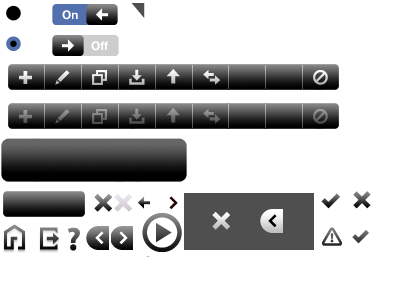
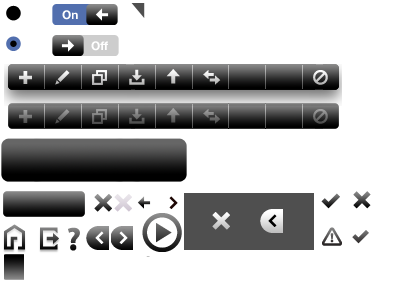
css for error.label on validation forms. fixed strange padding on filemanager toolbar

Changed region(s): [[0.0, 0.2353, 0.8593, 0.3529], [0.0, 0.8235, 0.0593, 0.9412]]

diff --git a/bubba-frontend/admin/views/default/_css/admin.css b/bubba-frontend/admin/views/default/_css/admin.css
@@ -10,7 +10,7 @@ form form {margin: 0;}
 */
 fieldset {border: 0;} //RENSA BORT VID SLUTCHECK
 input {background:#fff;padding: 0.2em;margin: 0.2em;}
-input[type=submit],input[type=button],input[type=file], button {padding: 0.2em;margin: 0.2em;color:white;font-weight:bold;-moz-border-radius: 0.3em;-webkit-border-radius: 0.3em;border:0;font-size:12px;background-image:url(../_img/label.png);background-repeat:overflow:hidden;background-position: -6px -138px;display:block;height:31px;}
+input[type=submit],input[type=button],input[type=file], button {padding: 0.2em;margin: 0.2em;color:white;font-weight:bold;-moz-border-radius: 0.3em;-webkit-border-radius: 0.3em;border:0;font-size:12px;background-image:url(../_img/label.png);background-repeat:overflow:hidden;background-position: -6px -138px;display:block;height:31px;min-width:70px;}
 input[type=submit]:hover,input[type=button]:hover {border:0;opacity:0.5 !important;-ms-filter:"progid:DXImageTransform.Microsoft.Alpha(Opacity=50)" !important;filter: alpha(opacity=50) !important;}
 input[type=submit]:focus,input[type=button]:focus {border:0}
 input[type=text],input[type=password] {vertical-align:text-bottom;padding:0.3em;-moz-border-radius: 0.3em;-webkit-border-radius: 0.3em;border: 0.1em solid #e5e5e5;}
@@ -39,21 +39,16 @@ button:hover {outline:none;}
 img{border: 0;}
 button:hover, input[type=button], input[type=submit], input[type=reset] { cursor: pointer }
 
-thead tr.ui-header th {
-	text-align: left;
-}
-
-table.ui-table.ui-table-list tbody tr td:last-child button {
-	float: right;
-}
-.ui-dialog-buttonpane {
-	text-align: center;
-}
+thead tr.ui-header th {	text-align: left;}
+table.ui-table.ui-table-list tbody tr td:last-child button {	float: right;}
+.ui-dialog-buttonpane {	text-align: center;}
 
 /*GENERAL CLASSES */
 .ui-header {background-color: #e5e5e5;color:#000;padding-left:1.2em;}
 .ui-div-header {font-size:14px;height:24px;padding:7px 1.2em;height:17px;}
-label.error { padding : 3px;  padding-left: 3px;  color: #fff; background-color : #656565; font-size : 10px !important;width:200px !important;z-index:100px;}
+
+label.error { padding : 1px;color: #fff; background-color : #656565; font-size : 10px !important;width:200px !important;z-index:100px;position:absolute;margin-left:2px;line-height:17px;height:17px;text-align:center;margin-top:6px;background-image:url(../_img/label.png);background-repeat:overflow:hidden;background-position: -6px -138px;
+-moz-border-radius-bottomleft: 1.5em !important;-webkit-border-radius-bottomleft: 1.5em !important;-moz-border-radius-topleft: 1.5em !important;-webkit-border-radius-left: 1.5em !important;opacity:0.85 !important;-ms-filter:"progid:DXImageTransform.Microsoft.Alpha(Opacity=85)" !important;filter: alpha(opacity=85) !important;-moz-box-shadow: 2px 3px 3px #666;-webkit-box-shadow:2px 3px 3px #666;box-shadow:2px 3px 3px #666;}
 input.error { border : 2px solid #506AB2;}
 
 /* WRAPPER */
@@ -78,7 +73,7 @@ input.error { border : 2px solid #506AB2;}
 #topnav a, #topnav span {float:left;}
 #topnav .ui-button-text {top:35px;font-size:12px;font-weight:bold;position:absolute;}
 #topnav_status {margin-right:10%;font-weight:bold;margin-top:10px;font-size:10px;}
-#topnav button {border:0;background:transparent;margin-right:0.8em;display:inline;font-size:10px;color:#000;}
+#topnav button {border:0;background:transparent;margin-right:0.8em;display:inline;font-size:10px;color:#000;min-width:0px;}
 /*#topnav button:hover {border-bottom:0.1em solid black;}*/
 #subnav {font-size: 14px;list-style: none;margin-top:0.8em;}
 #subnav ul:after {content: ".";height: 0;clear: both;visibility: hidden;}
@@ -197,8 +192,12 @@ div#subnav ul li a:hover {text-decoration:underline;}
 .ui-filemanager:not(.clone) tbody tr.row-selected:hover * {	background-color: #e5e5e5 !important}
 #filetable th {text-align:left;}
 #filetable_processing {padding: 30px; display: inline;}
-#filetable_wrapper button {border:0;background:transparent;margin:0;width:37px;display:inline}
+#filetable_wrapper button {border:0;background:transparent;margin:0;width:37px;display:inline;min-width:0;}
 #filetable_wrapper button:hover {cursor: pointer;}
+button.ui-button::-moz-focus-inner { border: 0; padding: 0; } /* reset extra padding in Firefox */
+
+
+
 .ui-filemanager span {float:left !important;}
 #fn-filemanager-information-panel {font-size:12px;width:957px;padding:0.4em;}
 .ui-corner-all {-moz-border-radius: 0 !important;-webkit-border-radius: 0 !important; }
@@ -217,7 +216,7 @@ div#subnav ul li a:hover {text-decoration:underline;}
 .ui-filemanager-type-dir {}
 .ui-filemanager-type-row {cursor: pointer;}
 .ui-button-set {float:right;margin:0 4px;}
-.ui-filemanager-buttonbar span {margin:0}
+.ui-filemanager-buttonbar span {margin:0;-moz-box-shadow: 2px 3px 3px #666;-webkit-box-shadow:2px 3px 3px #666;box-shadow:2px 3px 3px #666;}
 .ui-input-text {width: 100%;}
 .ui-text-center {	text-align : center;}
 .ui-button-text {font-size:16px;}
@@ -361,4 +360,3 @@ fieldset.expandable legend {
 	padding-left : 5px;
 	color : #fff;
 }
-
